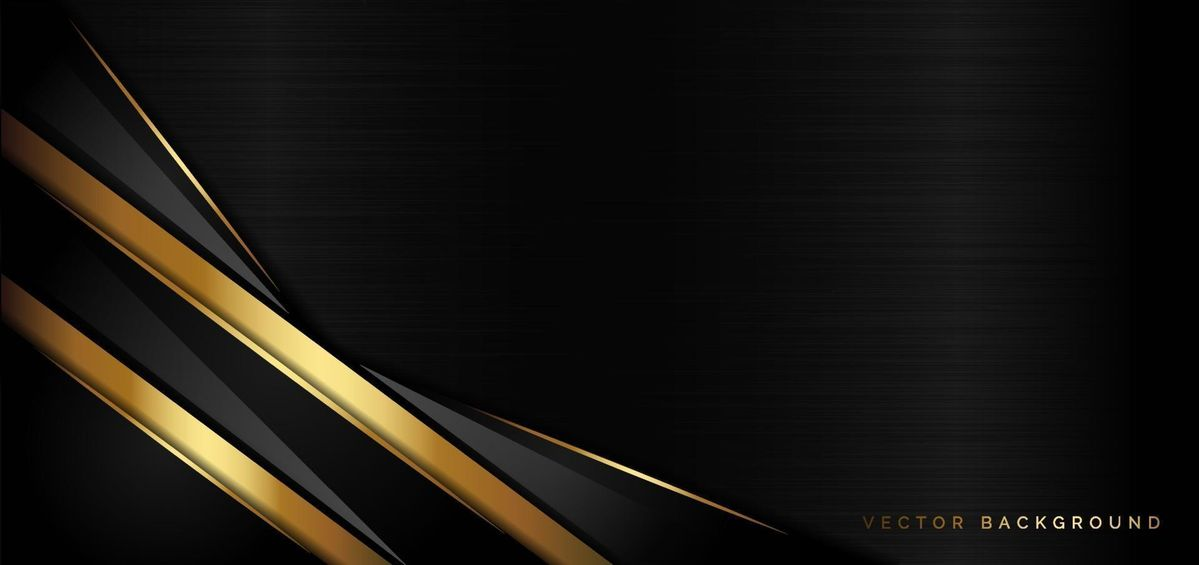
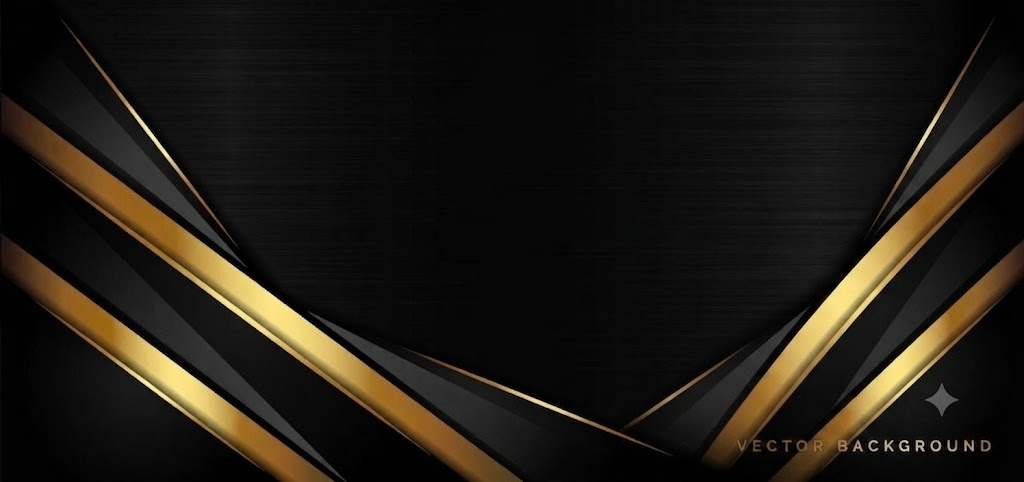
Apply dark hero overlay, crop About Us image, remove italic typography, and update stats pill

diff --git a/src/components/Hero/Hero.css b/src/components/Hero/Hero.css
@@ -41,12 +41,13 @@
   left: 0;
   width: 100%;
   height: 100%;
+  background: rgba(0, 0, 0, 0.55);
   background: linear-gradient(
     to bottom,
-    rgba(0, 0, 0, 0.35) 0%,
-    rgba(0, 0, 0, 0) 30%,
-    rgba(0, 0, 0, 0) 70%,
-    rgba(7, 7, 8, 0.8) 100%
+    rgba(0, 0, 0, 0.7) 0%,
+    rgba(0, 0, 0, 0.5) 40%,
+    rgba(0, 0, 0, 0.55) 75%,
+    rgba(7, 7, 8, 0.95) 100%
   );
   z-index: 2;
   pointer-events: none;

diff --git a/src/components/AboutSection/AboutSection.jsx b/src/components/AboutSection/AboutSection.jsx
@@ -52,16 +52,11 @@ function AboutSection() {
             transition={{ duration: 4, repeat: Infinity, repeatType: "mirror", ease: "easeInOut", delay: 1.2 }}
           >
             <img 
-              src="/images/portrait_6.jpeg" 
+              src="/images/dr_rashel.jpeg" 
               alt="Elite Eventure 3D Exhibition Stand Showcase" 
               className="about-card-img" 
               loading="lazy" 
             />
-            {/* Subtle luxury glass accent badge on image */}
-            <div className="about-card-badge">
-              <span className="badge-pulse-dot" />
-              <span>3D Spatial Design</span>
-            </div>
           </motion.div>
         </motion.div>
 

diff --git a/src/components/AboutSection/AboutSection.css b/src/components/AboutSection/AboutSection.css
@@ -46,12 +46,15 @@
   width: 100%;
   height: 100%;
   object-fit: cover;
+  object-position: center top;
   display: block;
+  transform: scale(1.18);
+  transform-origin: center top;
   transition: transform 0.7s cubic-bezier(0.16, 1, 0.3, 1);
 }
 
 .about-single-card:hover .about-card-img {
-  transform: scale(1.04);
+  transform: scale(1.23);
 }
 
 /* Glass Badge on Image */
@@ -59,6 +62,7 @@
   position: absolute;
   bottom: 24px;
   left: 24px;
+  z-index: 2;
   backdrop-filter: blur(14px);
   -webkit-backdrop-filter: blur(14px);
   background: rgba(10, 10, 14, 0.75);

diff --git a/src/components/AboutStorySection/AboutStorySection.css b/src/components/AboutStorySection/AboutStorySection.css
@@ -100,7 +100,7 @@
 
 .aso-main-heading-gold {
   color: var(--color-gold-brand);
-  font-style: italic;
+  font-style: normal;
   font-weight: 300;
 }
 
@@ -407,7 +407,7 @@
   font-size: 0.82rem;
   font-weight: 400;
   color: rgba(255,255,255,0.42);
-  font-style: italic;
+  font-style: normal;
 }
 
 /* ============================================================
@@ -641,7 +641,7 @@
 
 .aso-sec-title span {
   color: var(--color-gold-brand);
-  font-style: italic;
+  font-style: normal;
   font-weight: 300;
 }
 

diff --git a/src/pages/AboutPage.css b/src/pages/AboutPage.css
@@ -322,7 +322,7 @@
 
 .ap-heading-gold {
   color: var(--color-gold-brand);
-  font-style: italic;
+  font-style: normal;
   font-weight: 300;
 }
 
@@ -551,7 +551,7 @@
 
 .ap-section-title span {
   color: var(--color-gold-brand);
-  font-style: italic;
+  font-style: normal;
   font-weight: 300;
 }
 
@@ -755,7 +755,7 @@
 
 .ap-cta-heading span {
   color: var(--color-gold-brand);
-  font-style: italic;
+  font-style: normal;
   font-weight: 300;
 }
 

diff --git a/src/components/WhyChooseSection/WhyChooseSection.css b/src/components/WhyChooseSection/WhyChooseSection.css
@@ -89,7 +89,7 @@
 
 .why-gold {
   color: var(--color-gold-brand);
-  font-style: italic;
+  font-style: normal;
   font-weight: 300;
 }
 
@@ -331,7 +331,7 @@
   color: rgba(255, 255, 255, 0.75);
   line-height: 1.7;
   margin: 0 0 1.5rem 0;
-  font-style: italic;
+  font-style: normal;
   flex-grow: 1;
 }
 

diff --git a/src/components/BrandsSection/BrandsSection.css b/src/components/BrandsSection/BrandsSection.css
@@ -86,7 +86,7 @@
 
 .brands-gold {
   color: var(--color-gold-brand);
-  font-style: italic;
+  font-style: normal;
   font-weight: 300;
 }
 

diff --git a/src/components/ExpertiseSection/ExpertiseSection.css b/src/components/ExpertiseSection/ExpertiseSection.css
@@ -285,7 +285,7 @@
 
 .expertise-gold {
   color: #D4AF37;
-  font-style: italic;
+  font-style: normal;
   font-weight: 300;
 }
 

diff --git a/src/components/Gallery/Gallery.css b/src/components/Gallery/Gallery.css
@@ -74,7 +74,7 @@
 
 .gallery-headline-gold {
   color: var(--color-gold-brand);
-  font-style: italic;
+  font-style: normal;
   font-weight: 300;
 }
 

diff --git a/src/components/GalleryHero/GalleryHero10.css b/src/components/GalleryHero/GalleryHero10.css
@@ -81,7 +81,7 @@
 }
 
 .gh10-content .italic {
-  font-style: italic;
+  font-style: normal;
   font-weight: 800; /* slightly lighter weight for the italic contrast */
 }
 

diff --git a/src/components/GalleryHero/GalleryHero10.jsx b/src/components/GalleryHero/GalleryHero10.jsx
@@ -18,7 +18,7 @@ export default function GalleryHero10() {
       <div className="gh10-content">
         <p className="gh10-eyebrow">Visual Archives</p>
         <h1 className="gh10-title">
-          Our <span className="gh10-gold italic">Portfolio</span>
+          Our <span className="gh10-gold">Portfolio</span>
         </h1>
         <p className="gh10-subtitle">
           A curated collection of unforgettable spaces and experiences.

diff --git a/src/components/GalleryHero/GalleryHero11.css b/src/components/GalleryHero/GalleryHero11.css
@@ -133,7 +133,7 @@
 
 .gh11-gold {
   color: #eab308;
-  font-style: italic;
+  font-style: normal;
   display: block;
 }
 